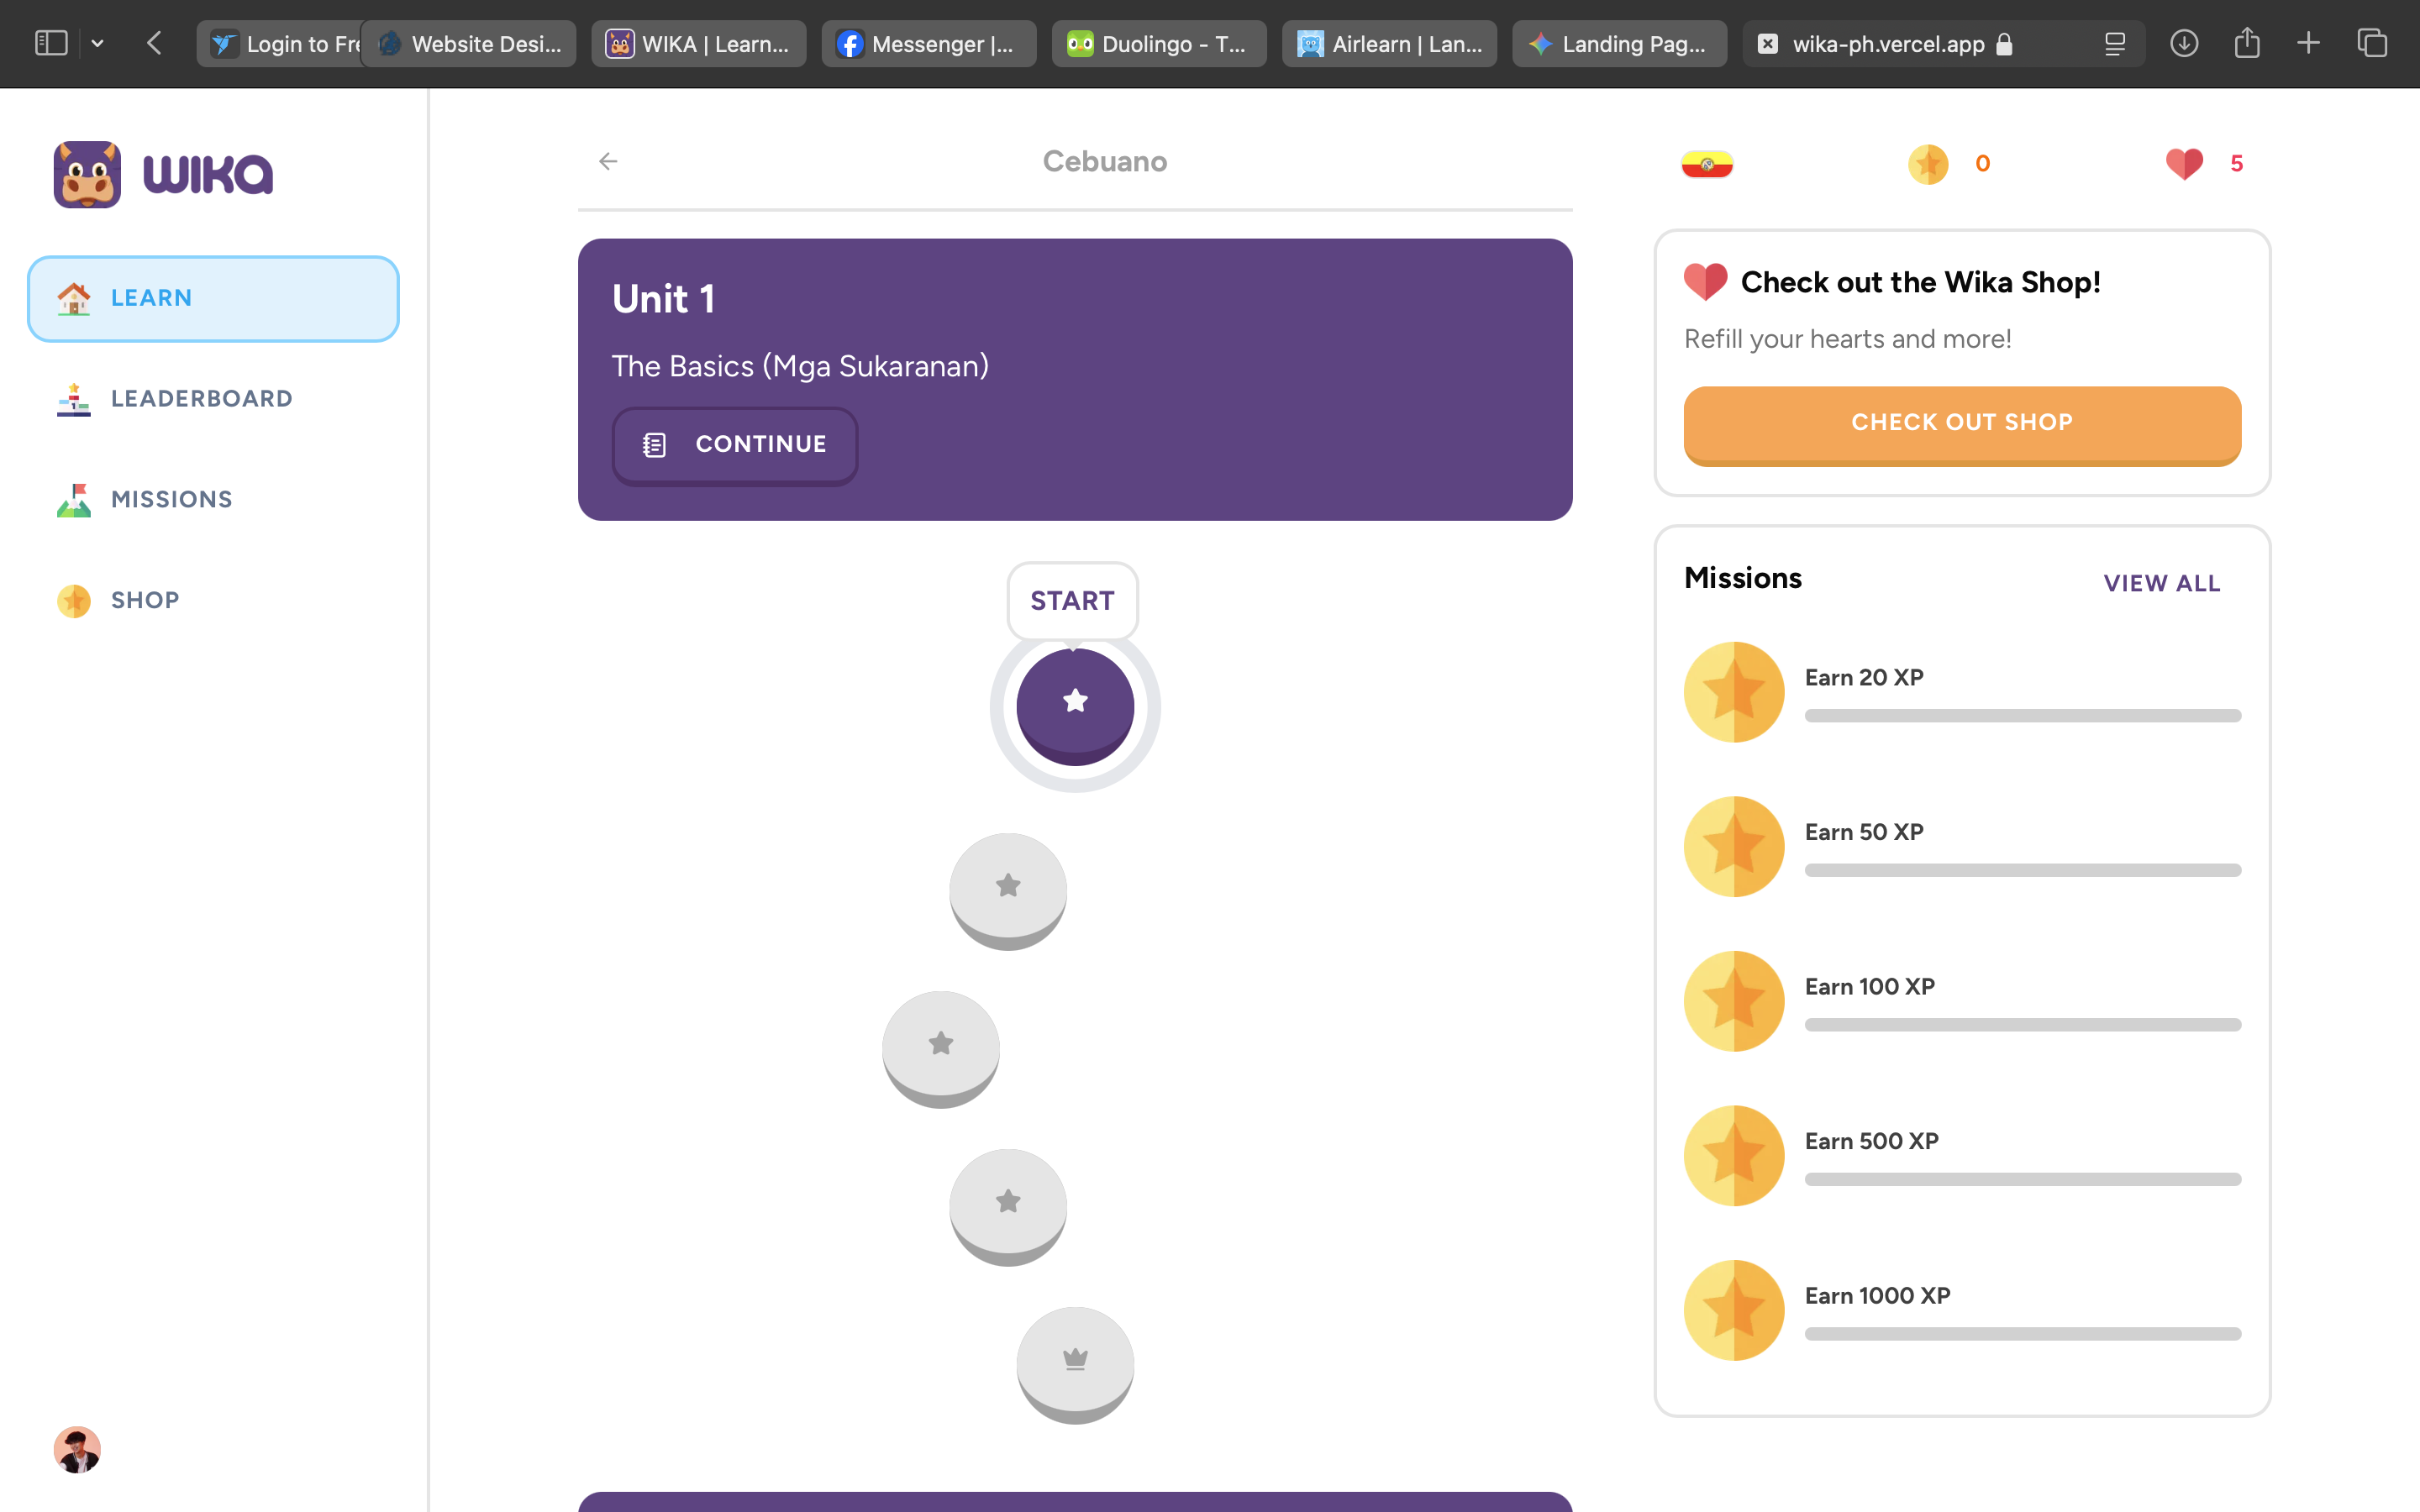
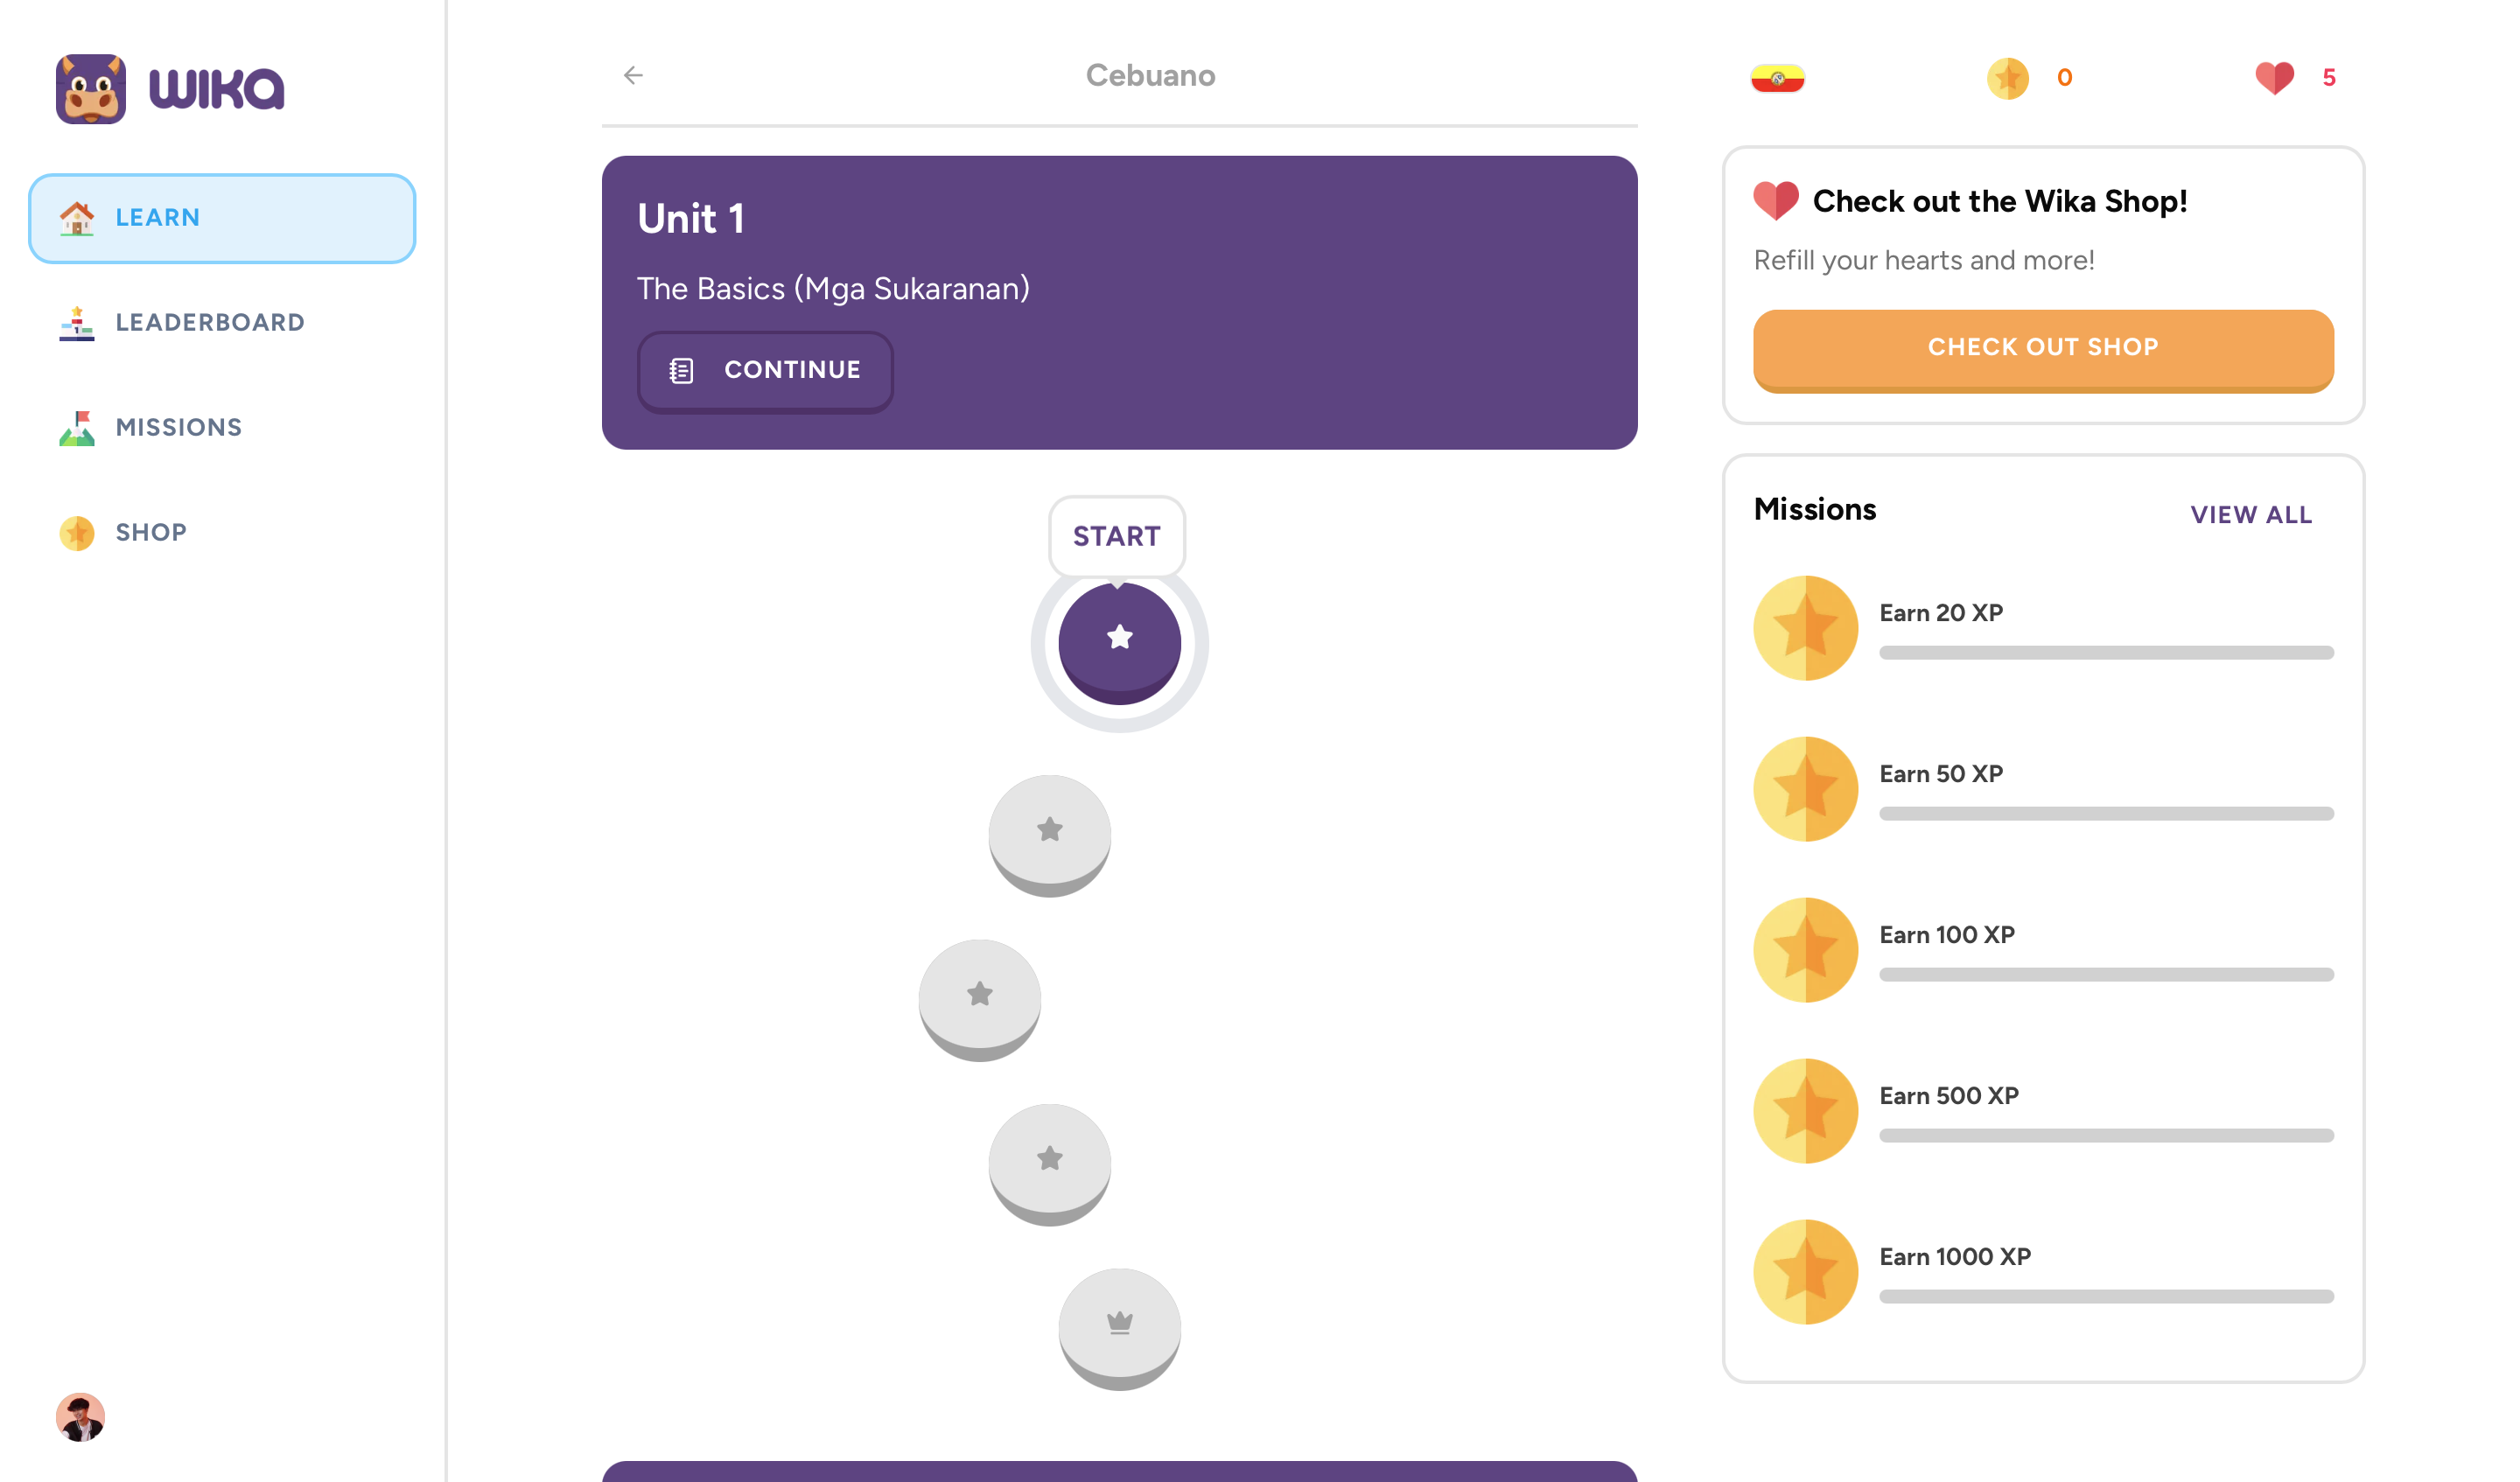
Fixed classroom

diff --git a/components/sections/features-section.tsx b/components/sections/features-section.tsx
@@ -333,7 +333,7 @@ export function FeaturesSection() {
               </div>
             </div>
             <div className="w-full lg:w-1/2 group-hover:scale-[1.02] transition-transform duration-300">
-              <div className="wika-shadow relative overflow-hidden rounded-3xl bg-on-background">
+              <div className="relative overflow-hidden rounded-3xl bg-on-background">
                 <img
                   src="/features/classroom-bg.png"
                   alt="Classroom learning system"